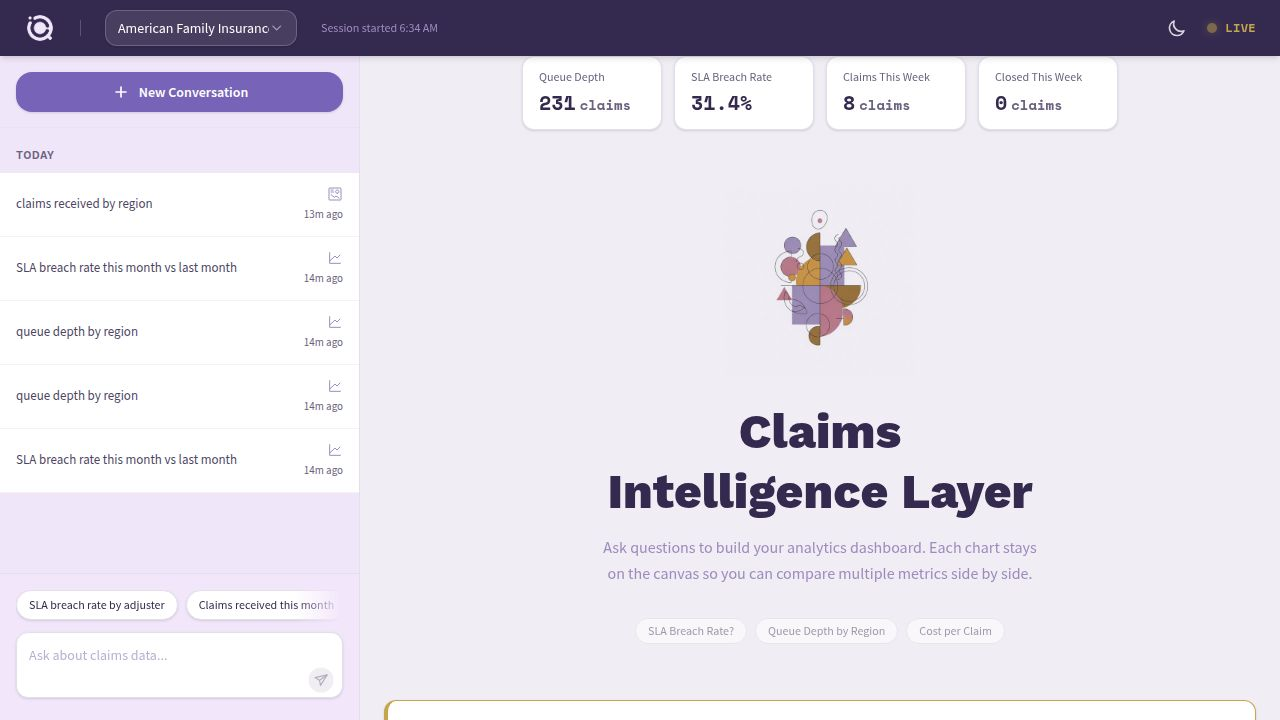
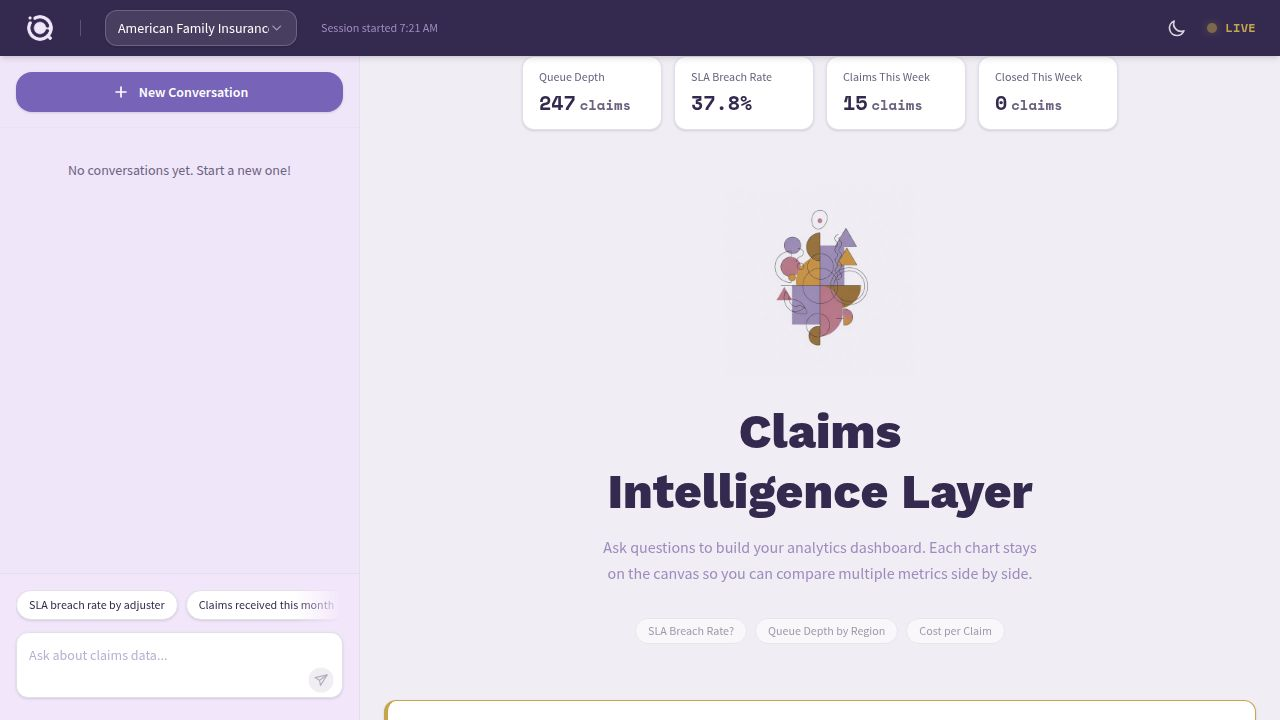
sss

diff --git a/server/seed.ts b/server/seed.ts
@@ -54,19 +54,26 @@ function generateClaims(count: number, clientId: string, adjusterIds: string[]):
     const state_code = randomChoice(STATES[region]);
     const severity = randomChoice(SEVERITIES);
     const fnol_date = randomDate(yearAgo, now);
-    const isClosed = Math.random() < 0.55;
-    const status = isClosed ? "closed" : randomChoice(["open", "in_progress", "review"] as const);
-    const stageIdx = isClosed ? STAGES.length - 1 : status === "review" ? Math.max(2, randomInt(2, STAGES.length - 2)) : randomInt(0, STAGES.length - 2);
+    const status = "open";
+    const roll = Math.random();
+    let stageIdx: number;
+    if (roll < 0.80) {
+      stageIdx = randomInt(0, 3);
+    } else if (roll < 0.95) {
+      stageIdx = 4;
+    } else {
+      stageIdx = 5;
+    }
     const current_stage = STAGES[stageIdx];
     const sla_target_days = severity === "critical" ? 14 : severity === "high" ? 21 : severity === "medium" ? 30 : 45;
     const daysOpen = (now.getTime() - fnol_date.getTime()) / 86400000;
-    const closed_at = isClosed ? new Date(fnol_date.getTime() + randomInt(3, Math.max(5, sla_target_days + 20)) * 86400000) : null;
-    const actualDays = closed_at ? (closed_at.getTime() - fnol_date.getTime()) / 86400000 : daysOpen;
+    const closed_at = null;
+    const actualDays = daysOpen;
     const sla_breached = actualDays > sla_target_days;
     const first_touch_at = new Date(fnol_date.getTime() + randomInt(1, 48) * 3600000);
     const assigned_at = new Date(fnol_date.getTime() + randomInt(0, 24) * 3600000);
     const reserve_amount = randomInt(1000, 250000) + Math.random() * 100;
-    const paid_amount = isClosed ? reserve_amount * (0.3 + Math.random() * 0.7) : 0;
+    const paid_amount = 0;
     const hasIssues = Math.random() < 0.25;
     const issue_types = hasIssues ? Array.from(new Set(Array.from({ length: randomInt(1, 3) }, () => randomChoice(ISSUE_TYPES)))) : [];
     const reopen_count = 0;
@@ -82,7 +89,7 @@ function generateClaims(count: number, clientId: string, adjusterIds: string[]):
       assigned_at: assigned_at.toISOString(),
       fnol_date: fnol_date.toISOString(),
       first_touch_at: first_touch_at.toISOString(),
-      closed_at: closed_at?.toISOString() || null,
+      closed_at: null,
       reserve_amount: Math.round(reserve_amount * 100) / 100,
       paid_amount: Math.round(paid_amount * 100) / 100,
       sla_target_days, sla_breached, has_issues: hasIssues,
